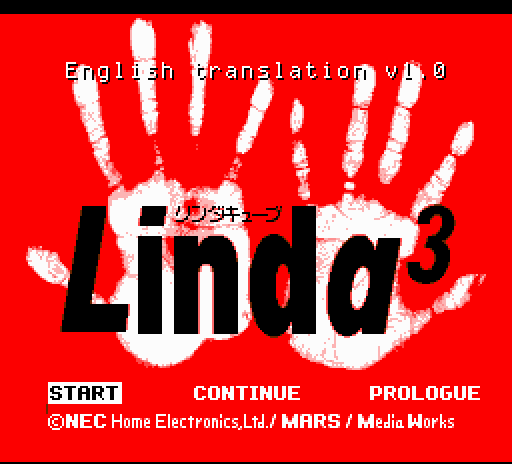
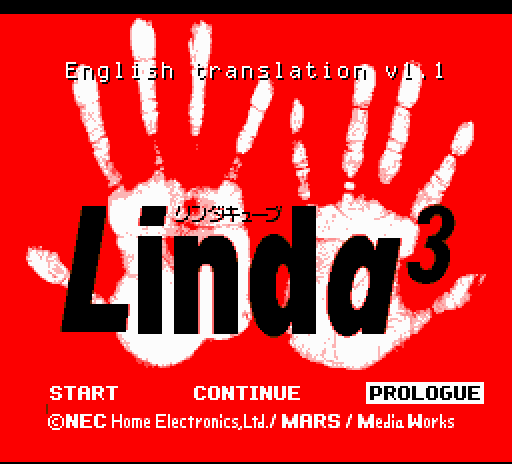
Readme: title screenshot for v1.1

Changed region(s): [[0.6875, 0.8147, 0.9688, 0.875], [0.0938, 0.8147, 0.25, 0.875], [0.8438, 0.1207, 0.875, 0.181]]

diff --git a/README.md b/README.md
@@ -7,7 +7,7 @@ data track, not the game: you need your own disc image of **Linda3 (Japan, Rev 2
  · [How to install](INSTALL.md) · [Checksums](SHA1SUMS.txt)
 
 <p align="center">
-  <img src="screenshots/01-title.png" width="512" alt="Title screen with the line: English translation v1.0">
+  <img src="screenshots/01-title.png" width="512" alt="Title screen with the line: English translation v1.1">
 </p>
 
 ## Progress
